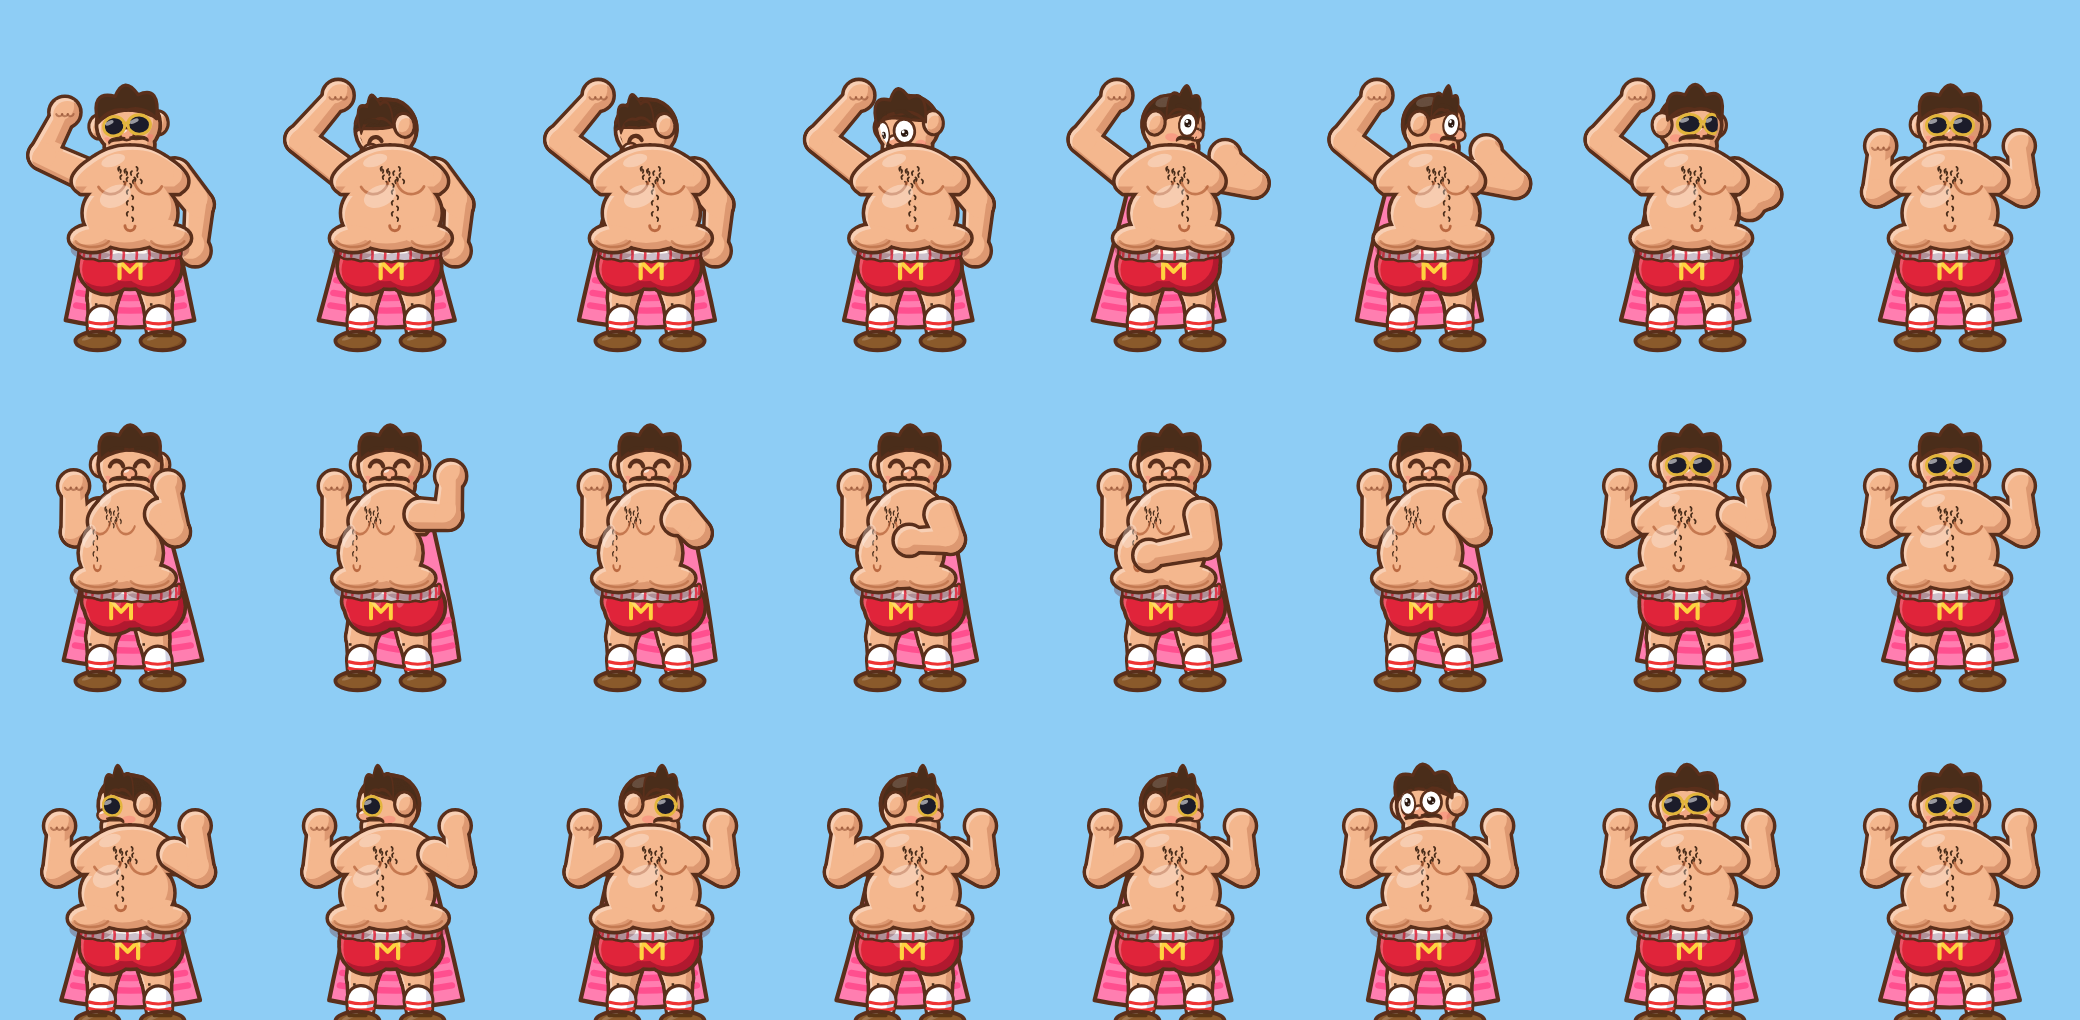
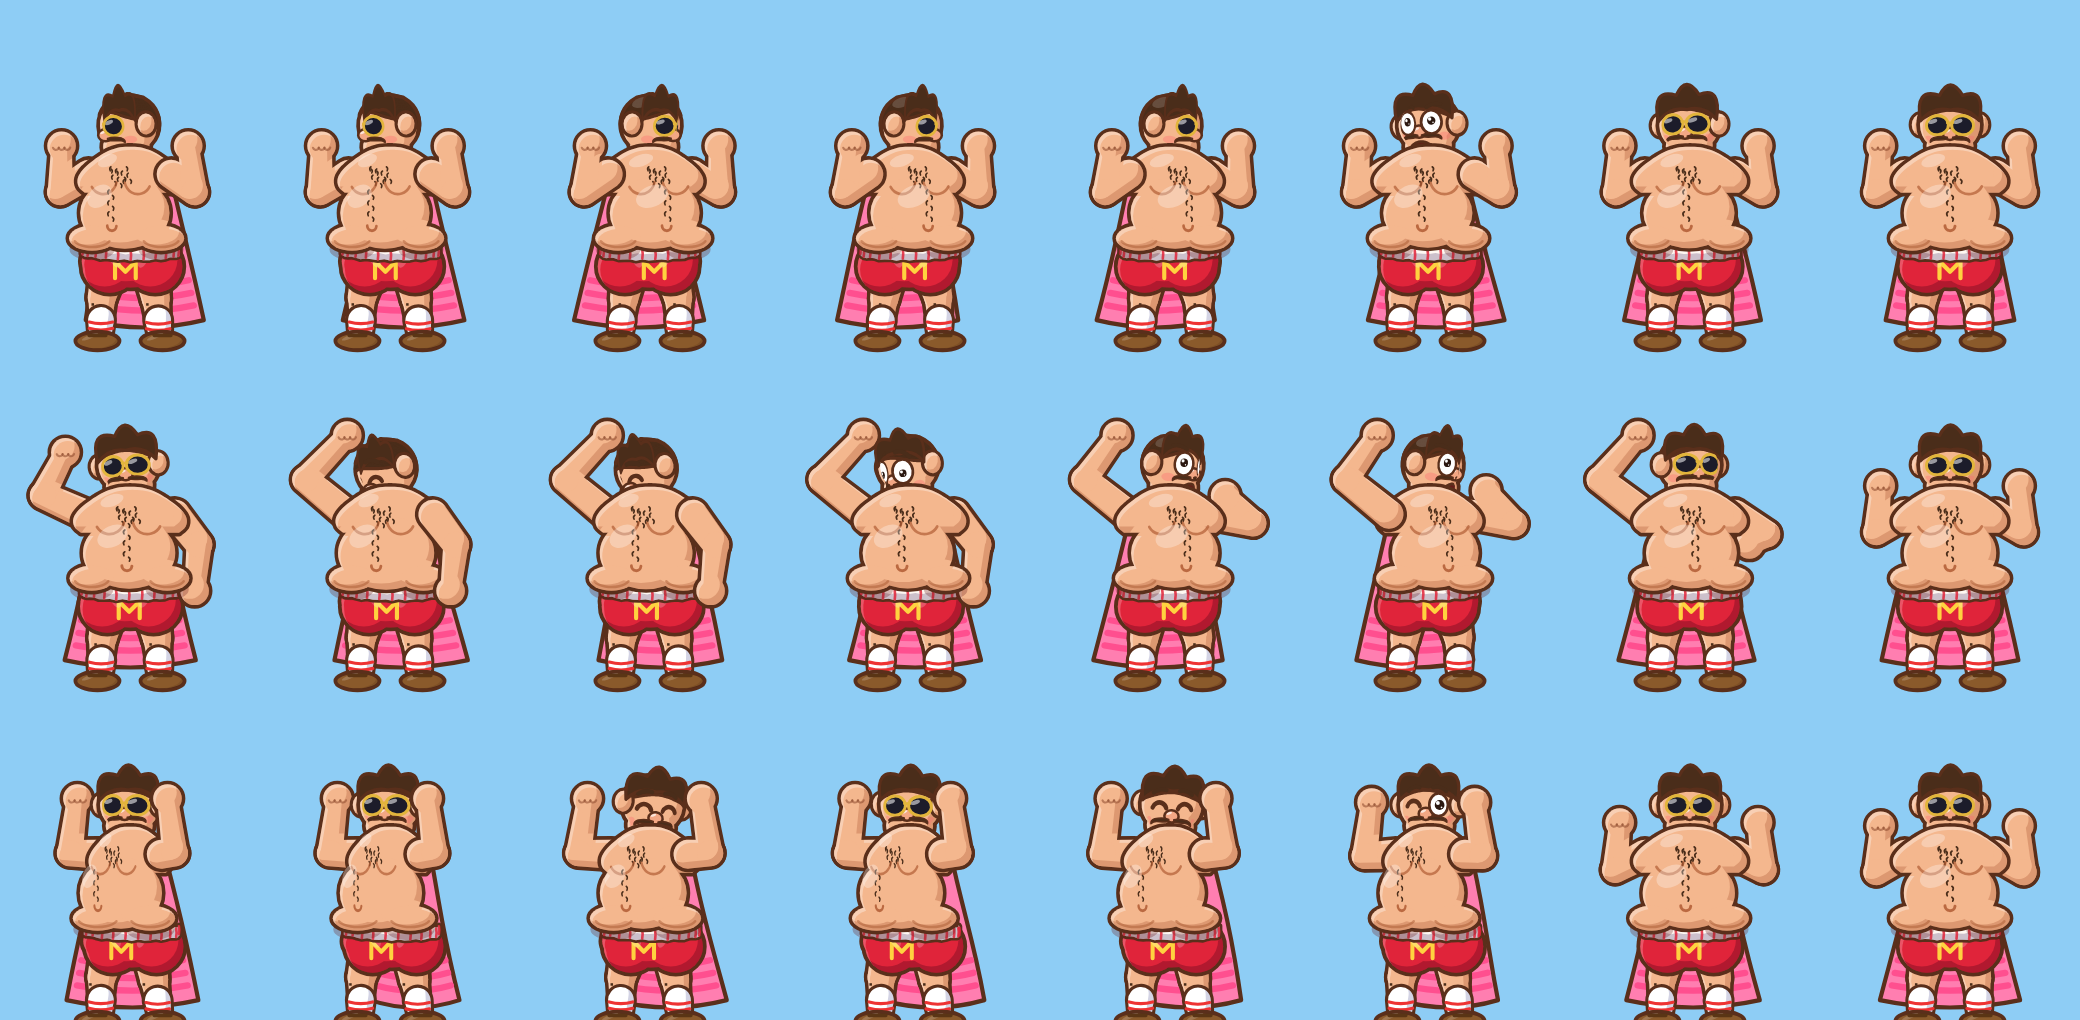
mandex: improved idle gags with new faces and props

diff --git a/web/index.html b/web/index.html
@@ -1405,7 +1405,7 @@ let CAPEA=0,CAPET=-9;
 function capeAng(th){if(time-CAPET>.3)CAPEA=th;else CAPEA+=(th-CAPEA)*.1;CAPET=time;return CAPEA}   // the cape swings after the body
 function drawSpin(th,o){
   o=o||{};
-  const hip=o.hip||0,cl=o.cl||0,cr=o.cr||0,psi=(o.psi||0)*Math.PI/180+(o.plant?-.6*th:0),ld=(o.ld||0)*Math.PI/180,hpA=(o.hp||0)*Math.PI/180,pdv=hpA*13,CA=o.arms,fk=o.face||'',FX=FACE3[fk]||FACE3.base,gzv=o.gz||[0,0],spd=o.spd==null?1:o.spd,dir=o.dir||1,tt=o.t||0;
+  const hip=o.hip||0,cl=o.cl||0,cr=o.cr||0,psi=(o.psi||0)*Math.PI/180+(o.plant?-.6*th:0),ld=(o.plant?58*Math.tanh((o.ld||0)/58):(o.ld||0))*Math.PI/180,hpA=(o.hp||0)*Math.PI/180,pdv=hpA*13,CA=o.arms,fk=o.face||'',FX=FACE3[fk]||FACE3.base,gzv=o.gz||[0,0],spd=o.spd==null?1:o.spd,dir=o.dir||1,tt=o.t||0;
   const C=Math.cos(th),S=Math.sin(th),C2=Math.cos(th+psi),S2=Math.sin(th+psi),Ch=Math.cos(th+ld),Sh=Math.sin(th+ld);        // C,S = whole body; C2,S2 = hips (twisted a bit more for the wiggle)
   const oU=-hip*.35,oM=hip*.15,oL=hip*.6;                                              // screen sway of the upper body / belly / hips
   const bo=JIG?JIG.bo:[0,0],ro=JIG?JIG.ro:[0,0],bs=(JIG?JIG.bs:[1,1]).map((v,i)=>v*(o.belly?o.belly[i]:1)),wo=[(bo[0]+ro[0])/2,(bo[1]+ro[1])/2];
@@ -1664,20 +1664,20 @@ function spinLive(Q){
   const A=(L,R)=>({L,R}),up=A([-40,-34,0,-45,-56,0],mir([-40,-34,0,-45,-56,0]));
   tp('IDLE',{});
   // look around, then a double take
-  tp('LKL',{th:-12,ld:-50,gz:[-1,0],hr:-3});tp('LKR',{th:12,ld:50,gz:[1,0],hr:3});tp('TAKE',{th:-6,ld:-14,hp:-6,hr:-4,face:'scream',belly:[.97,.97]});
+  tp('LKL',{th:-24,ld:-40,gz:[-1,0],hr:-3});tp('LKR',{th:24,ld:40,gz:[1,0],hr:3});tp('TAKE',{th:-10,ld:-10,hp:-6,hr:-4,face:'scream',belly:[.97,.97]});
   // belly slap in three quarter view, looking at us
-  const SL={th:-48,ld:46,face:'bliss'};
+  const SL={th:-48,ld:40,face:'bliss'};
   tp('SLI',SL);tp('SLW',{...SL,arms:A(GL,[46,-22,2,50,-40,2])});tp('SLH',{...SL,belly:[1.1,.9],arms:A(GL,[36,-6,10,12,0,26]),ad:[0,12]});tp('SLR',{...SL,belly:[.94,1.07],arms:A(GL,[42,-14,4,40,-26,4])});
   // turns half away and scratches his butt, glancing back at us, then sniffs the hand
-  const SB={th:68,ld:-70,face:'bliss'};
+  const SB={th:68,ld:-56,face:'bliss'};
   tp('SBI',{...SB,arms:A([-32,-12,3,-30,-30,8],HR)});tp('SBa',{...SB,arms:A([-30,0,-8,-16,16,-22],HR)});tp('SBb',{...SB,arms:A([-30,2,-8,-12,21,-24],HR)});
-  tp('SBN',{th:20,ld:-20,hp:8,face:'whiff',arms:A([-38,-14,8,-9,-36,16],HR)});tp('SBQ',{th:14,ld:24,hp:-4,hr:6,face:'queasy',arms:A([-38,-14,8,-9,-36,16],HR)});
+  tp('SBN',{th:24,ld:-16,hp:8,face:'whiff',arms:A([-38,-14,8,-9,-36,16],HR)});tp('SBQ',{th:14,ld:24,hp:-4,hr:6,face:'queasy',arms:A([-38,-14,8,-9,-36,16],HR)});
   // armpit sniff
   const PA=[-43,-37,-2,-24,-58,-8];
-  tp('PS0',{hr:-2,arms:A([-40,-22,2,-38,-42,4],DR)});tp('PSA',{ld:-8,hr:-6,arms:A(PA,DR)});
-  tp('PSB',{th:6,ld:-62,hp:20,hr:-10,hdy:2,face:'whiff',belly:[1.07,1.03],arms:A(PA,DR)});tp('PSB2',{th:6,ld:-60,hp:16,hr:-9,hdy:2,face:'bliss',belly:[.99,1],arms:A(PA,DR)});
-  tp('PSQ',{th:2,ld:-30,hp:8,hr:-5,face:'queasy',belly:[.96,.98],arms:A(PA,DR)});
-  tp('PSC',{th:20,ld:44,hp:-6,hr:8,face:'scream',belly:[.97,.97],arms:A(PA,[41,-17,6,24,-33,10])});tp('PSC2',{th:24,ld:44,hp:-6,hr:8,face:'scream',belly:[.97,.97],arms:A(PA,[43,-11,6,29,-25,10])});
+  tp('PS0',{hr:-2,arms:A([-40,-22,2,-38,-42,4],DR)});tp('PSA',{th:-8,ld:-6,hr:-6,arms:A(PA,DR)});
+  tp('PSB',{th:-18,ld:-44,hp:20,hr:-10,hdy:2,face:'whiff',belly:[1.07,1.03],arms:A(PA,DR)});tp('PSB2',{th:-18,ld:-42,hp:16,hr:-9,hdy:2,face:'bliss',belly:[.99,1],arms:A(PA,DR)});
+  tp('PSQ',{th:-8,ld:-26,hp:8,hr:-5,face:'queasy',belly:[.96,.98],arms:A(PA,DR)});
+  tp('PSC',{th:24,ld:34,hp:-6,hr:8,face:'scream',belly:[.97,.97],arms:A(PA,[41,-17,6,24,-33,10])});tp('PSC2',{th:28,ld:34,hp:-6,hr:8,face:'scream',belly:[.97,.97],arms:A(PA,[43,-11,6,29,-25,10])});
   // brow wipe
   tp('WA',{th:8,ld:-14,hp:8,hr:6,face:'burpo',sweatB:1,arms:A(DL,[40,-33,8,14,-48,18])});tp('WB',{th:10,ld:-14,hp:8,hr:4,face:'burpo',sweatB:1,arms:A(DL,[39,-33,8,8,-47,18])});
   tp('WC',{th:0,ld:-20,arms:A(DL,[41,-24,2,52,-9,2])});tp('WD',{hp:6,face:'bliss',belly:[.98,.98],arms:A(DL,DR)});
@@ -1687,12 +1687,12 @@ function spinLive(Q){
   tp('NB',{th:6,ld:6,hp:8,hr:-4,face:'pick',arms:A([-41,-14,10,-26,-32,16],DR),prop:LP});tp('NC',{th:10,ld:14,hp:6,hr:-8,face:'whiff',arms:A([-38,-18,12,-12,-36,18],DR),prop:LP});
   tp('ND',{th:4,ld:-6,hp:-4,face:'queasy',belly:[.97,.98],arms:A([-40,-18,12,-14,-38,18],DR),prop:LP});tp('NE',{ld:-24,arms:A([-38,-20,2,-50,-36,2],DR)});
   // nose pick: shifty look both ways, then the pick
-  tp('SPL',{th:12,ld:-46,gz:[-1,0]});tp('SPR',{th:-10,ld:42,gz:[1,0]});
-  tp('PKA',{th:10,ld:-6,hp:6,face:'pick',arms:A(GL,[37,-24,10,8,-41,22])});tp('PKB',{th:10,ld:-6,hp:6,face:'pick',arms:A(GL,[37,-24,10,6.5,-38.5,22])});tp('PKF',{th:4,ld:-34,arms:A(GL,[41,-20,4,52,-34,6])});
+  tp('SPL',{th:22,ld:-40,gz:[-1,0]});tp('SPR',{th:-22,ld:40,gz:[1,0]});
+  tp('PKA',{th:10,ld:-6,hp:6,face:'pick',arms:A(GL,[37,-24,10,8,-41,22])});tp('PKB',{th:10,ld:-6,hp:6,face:'pick',arms:A(GL,[37,-24,10,6.5,-38.5,22])});tp('PKF',{th:10,ld:-30,arms:A(GL,[41,-20,4,52,-34,6])});
   // flex in three quarter view, kiss the bicep
   const FA=A([-39,-21,2,-34,-47,2],[39,-21,8,34,-47,8]);
-  tp('FXA',{th:-46,ld:46,arms:FA});tp('FXB',{th:-46,ld:88,hp:10,hr:10,hdx:3,face:'kiss',arms:FA});tp('FXC',{th:-46,ld:46,face:'smirk',arms:FA});
-  tp('FXD',{th:46,ld:-46,arms:A([-39,-21,8,-34,-47,8],[39,-21,2,34,-47,2])});
+  tp('FXA',{th:-46,ld:40,arms:FA});tp('FXB',{th:-30,ld:56,hp:10,hr:8,face:'kiss',arms:FA});tp('FXC',{th:-46,ld:40,face:'smirk',arms:FA});
+  tp('FXD',{th:46,ld:-40,arms:A([-39,-21,8,-34,-47,8],[39,-21,2,34,-47,2])});
   // burp, yawn
   tp('BPA',{hp:-12,face:'burp',belly:[1.07,1.06],arms:A(DL,DR)});tp('BPB',{th:6,hp:16,hdy:2,face:'burpo',belly:[.96,.96],arms:A(DL,DR)});
   tp('YWA',{hp:-14,face:'yawn',belly:[1.04,1.06],arms:up});tp('YWB',{th:12,ld:6,hp:-14,face:'yawn',belly:[1.04,1.06],arms:up});tp('YWC',{th:-12,ld:-6,hp:-14,face:'yawn',belly:[1.04,1.06],arms:up});
